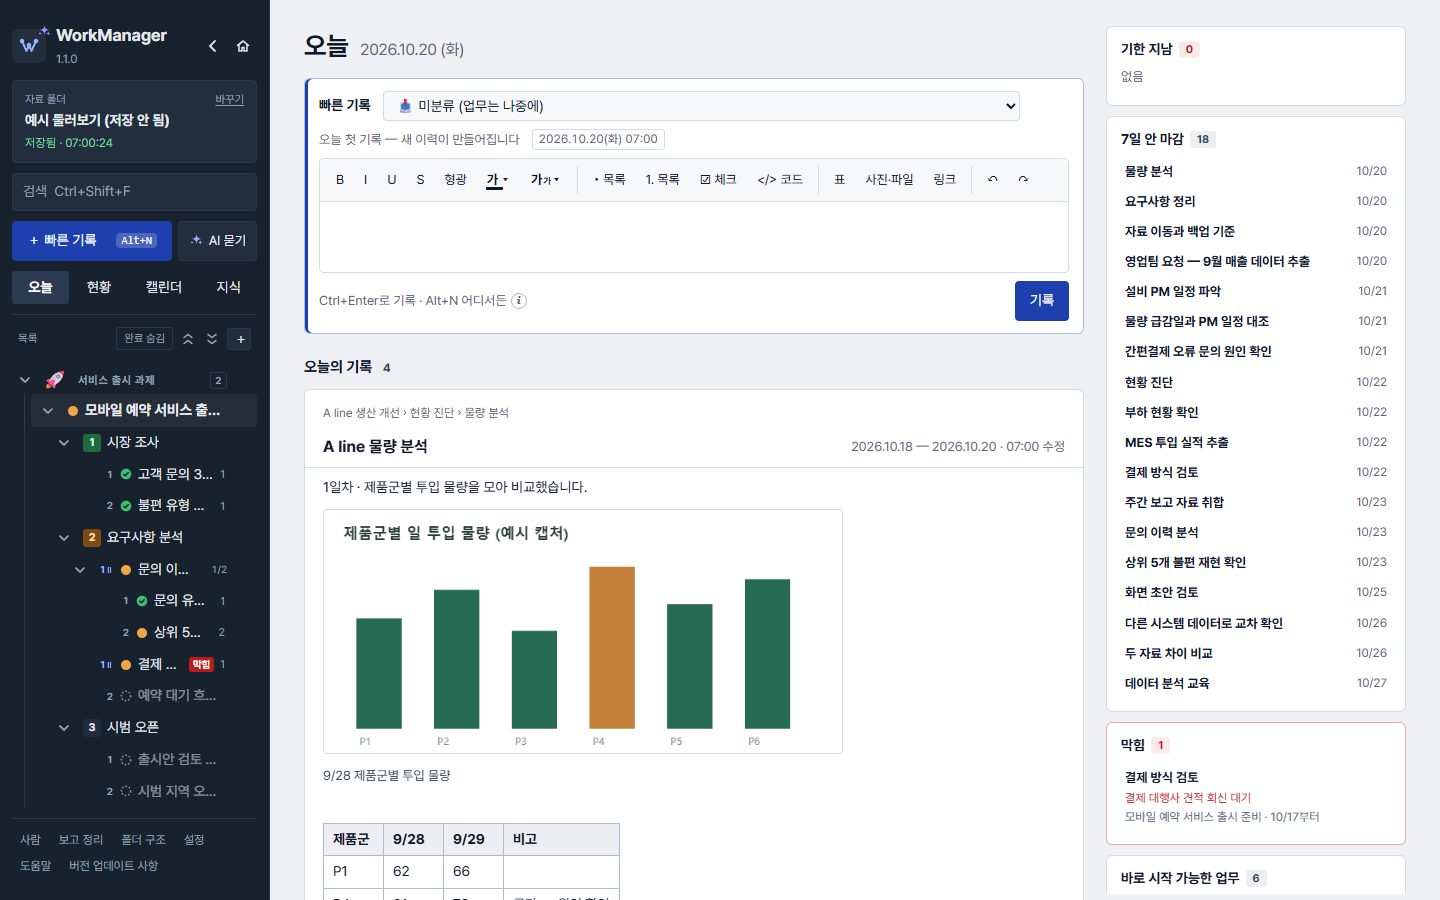
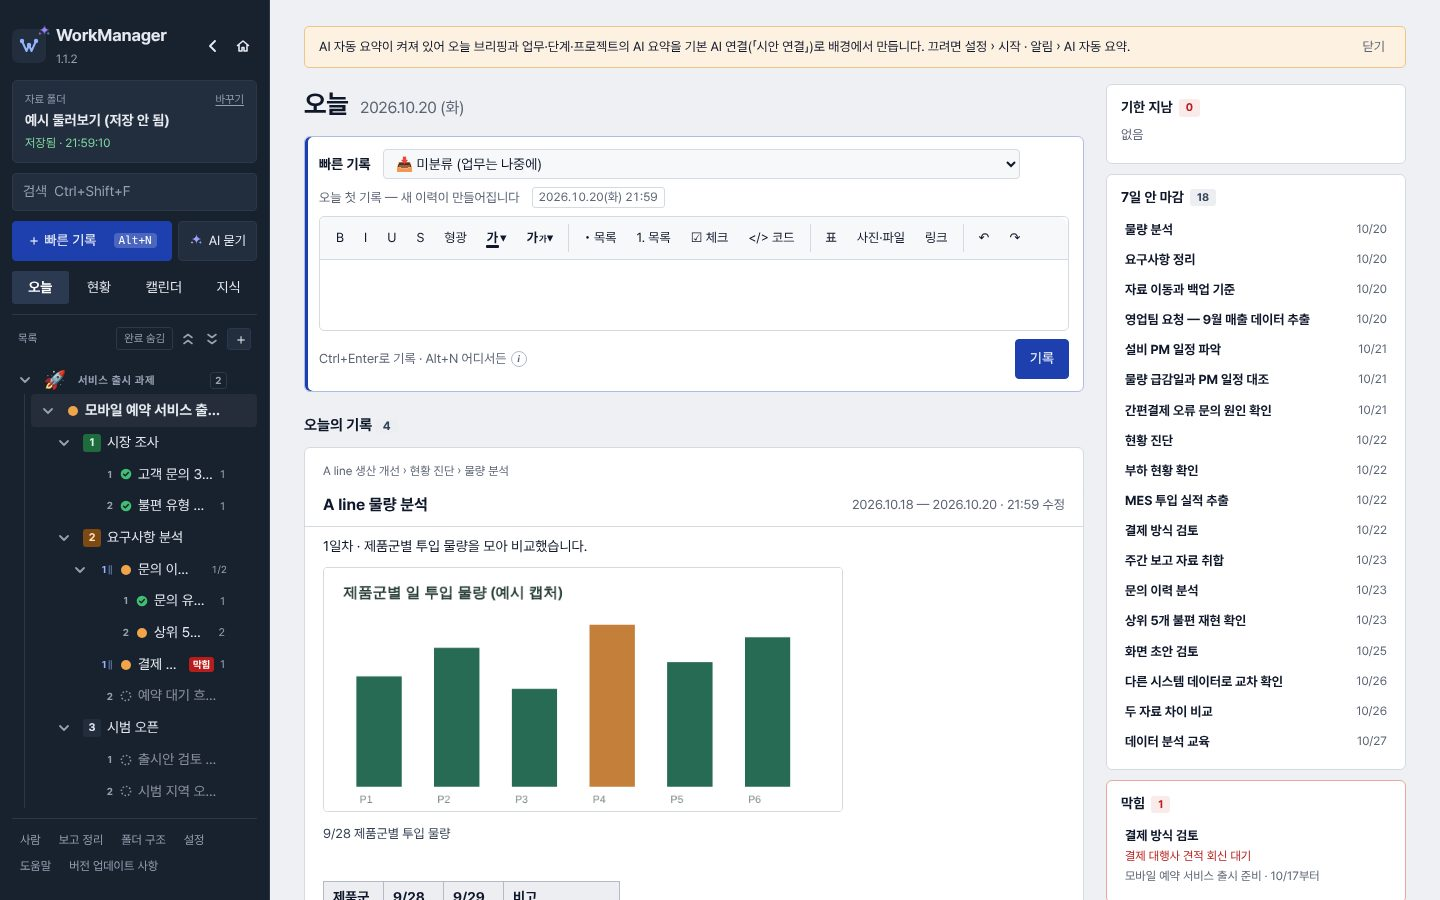
docs: WorkManager 1.1.2 안내와 설명서 갱신
Agent: Codex

diff --git a/README.md b/README.md
@@ -2,33 +2,34 @@
 
 흐름으로 업무를 관리하고, 쌓인 기록을 AI로 요약·정리하는 Windows 개인 업무 관리 앱입니다.
 
-**최신 버전: 1.1.1** · Windows (x64)
+**최신 버전: 1.1.2** · Windows (x64)
 
 | 필요한 것 | 바로가기 |
 |---|---|
 | 프로그램 | [WorkManager.exe 다운로드](https://github.com/1821rpm/workmanager/releases/latest/download/WorkManager.exe) |
 | 사용 설명서 | **[GitHub에서 바로 읽기](manual/README.md)** |
-| 오프라인 설명서 | [Releases](https://github.com/1821rpm/workmanager/releases/latest)의 `WorkManager-Manual-<버전>.html` — 받은 파일을 더블클릭하면 브라우저에서 열립니다 |
+| 오프라인 설명서 | [Releases](https://github.com/1821rpm/workmanager/releases/latest)의 [WorkManager-Manual-1.1.2.html](https://github.com/1821rpm/workmanager/releases/download/v1.1.2/WorkManager-Manual-1.1.2.html) — 받은 파일을 더블클릭하면 브라우저에서 열립니다 |
 | 변경 내용 · 이전 버전 | [Releases](https://github.com/1821rpm/workmanager/releases) |
 
 ![프로젝트의 개요와 업무 흐름](manual/img/04-project.jpg)
 
-게시된 1.1.0에서 1.1.1로 앱 안 업데이트·재시작을 확인했습니다. 기존 자료와 AI 연결 설정은 그대로 유지됩니다.
+자료 형식 v6를 유지하며 기존 자료 폴더와 AI 연결 설정을 이어 사용합니다.
 
-## 1.1.1에서 달라진 점
+## 1.1.2에서 달라진 점
 
-- 그림 한 장이 2분 동안 답하지 않으면 「읽기 실패(시간 초과)」로 두고 다음 그림으로 넘어갑니다. 다시 읽는 중 「중단」도 즉시 풀립니다.
-- 못 읽은 그림을 AI 요약 아래와 설정 목록에서 확인하고, 오른쪽 클릭으로 「AI에 안 보내기」·「AI에 다시 보내기」를 고를 수 있습니다.
-- 서로 다른 업무의 배경 AI 요약을 기본 3개씩 보냅니다. 하위 업무 → 단계 → 프로젝트 순서는 유지하며 설정 › 시작 · 알림에서 동시에 보내는 수를 1~5로 고를 수 있습니다.
-- Windows 백업의 일시적인 접근 오류를 짧게 다시 시도하고, 실패한 백업의 임시 폴더를 정리합니다.
-- 휴지통 비우기에서 중복 읽기를 줄이고, 복구 폴더의 desktop.ini·동기화 사본 같은 낯선 이름을 보존하면서 자료 폴더를 엽니다. 복구 기록의 모호한 사본은 중단하고 보존합니다.
+- **휴지통 전체 비우기가 되지 않던 것**을 고쳤습니다. 지우는 업무에 붙은 회의가 갈 곳이 없으면 확인창이 그 회의 이름과 어느 업무에 붙어 있는지 보여 주고, 그 자리에서 「이 회의도 같이 지우기」 또는 「미분류로 옮기기」를 고릅니다.
+- **마감을 지운 일이 「기한 지남」으로 뜨던 것**을 고쳤습니다. 기한은 적어 둔 마감만 보고, 시작일을 마감 대신 쓰지 않습니다(현황 할 일·단계·프로젝트 묶음·흐름도 모두).
+- **고치지 않았는데 「AI 요약 다시」가 뜨던 것**을 고쳤습니다. 바뀐 기록을 세는 기준을 자료 폴더에 담아 다른 PC에서도 같은 기준을 쓰고, AI 자신이 쓴 것은 「바뀜」으로 세지 않습니다.
+- 현황을 짧게: 우선순위 3줄 · 일정 5줄까지만 펼치고, 「챙길 것」은 제목과 개수만 두고 접습니다. 우선순위의 업무 이름을 누르면 그 업무로 갑니다.
+- 왼쪽 위 로고를 누르면 **AI 상태 창** — 지금 무엇을 만들고 있고 무엇을 기다리는지 어느 화면에서든 봅니다.
+- 배경 AI 요약 동시 수 기본값 3 → 5(설정에서 1~5).
+- 정리 칸 안내를 줄이고, AI 요약의 성격·진행·예정을 굵게 했습니다. 자료·링크를 넣을 때 이름도 함께 쓸 수 있습니다.
+- Ctrl+Enter는 어디서나 「지금 쓰던 것을 완료」입니다. 되돌릴 수 없는 확인창에서는 돌지 않습니다.
 
 ## 알려진 점
 
-- 사내 모델·실제 백신 상황은 확인하지 못했습니다.
-- 휴지통 비우기에는 진행 표시가 없습니다.
-- 폴더를 바꾸어도 이전 요청은 답이 올 때까지 전송 자리를 차지합니다. 병렬 요청에서는 선택한 하루 한도를 최대 2개(기본 동시 수 3 기준) 넘을 수 있습니다. 직접 누른 만들기는 하위 정리를 기다리지 않습니다.
-- 설명서의 기존 예시 그림에는 이전 판 화면과 모의 응답 문구가 포함되어 있습니다.
+- 설명서 그림은 이번 판에서 다시 찍었습니다 — 앱 안 도움말 그림과 글꼴이 미세하게 다를 수 있습니다.
+- 배경 AI 요약을 동시에 5개까지 보냅니다. 연결한 AI 서버가 느려지면 설정에서 1~4로 내리세요.
 
 ## 할 수 있는 일
 

diff --git a/manual/README.md b/manual/README.md
@@ -1,10 +1,26 @@
-# WorkManager 1.1.1 사용 설명서
+# WorkManager 1.1.2 사용 설명서
 
-Windows x64용 WorkManager 1.1.1 설명서입니다. 기존 자료 폴더와 AI 연결 설정을 그대로 이어 사용합니다.
+Windows x64용 WorkManager 1.1.2 설명서입니다. 기존 자료 폴더와 AI 연결 설정을 그대로 이어 사용합니다.
 
-[현재 정식판 다운로드](https://github.com/1821rpm/workmanager/releases/download/v1.1.1/WorkManager.exe) · [현재 정식판 설명서](https://github.com/1821rpm/workmanager/releases/download/v1.1.1/WorkManager-Manual-1.1.1.html) · [프로젝트 첫 화면](../README.md)
+[현재 정식판 다운로드](https://github.com/1821rpm/workmanager/releases/download/v1.1.2/WorkManager.exe) · [현재 정식판 설명서](https://github.com/1821rpm/workmanager/releases/download/v1.1.2/WorkManager-Manual-1.1.2.html) · [프로젝트 첫 화면](../README.md)
 
 앱 안 도움말과 같은 내용입니다. 그림은 예시·합성 자료이며 AI 답은 모의 응답입니다. 업데이트 그림은 이전 판에서 촬영한 안내 예시입니다.
+
+## 1.1.2 안내
+
+- **휴지통 전체 비우기가 되지 않던 것**을 고쳤습니다. 지우는 업무에 붙은 회의가 갈 곳이 없으면 확인창이 그 회의 이름과 어느 업무에 붙어 있는지 보여 주고, 그 자리에서 「이 회의도 같이 지우기」 또는 「미분류로 옮기기」를 고릅니다.
+- **마감을 지운 일이 「기한 지남」으로 뜨던 것**을 고쳤습니다. 기한은 적어 둔 마감만 보고, 시작일을 마감 대신 쓰지 않습니다(현황 할 일·단계·프로젝트 묶음·흐름도 모두).
+- **고치지 않았는데 「AI 요약 다시」가 뜨던 것**을 고쳤습니다. 바뀐 기록을 세는 기준을 자료 폴더에 담아 다른 PC에서도 같은 기준을 쓰고, AI 자신이 쓴 것은 「바뀜」으로 세지 않습니다.
+- 현황을 짧게: 우선순위 3줄 · 일정 5줄까지만 펼치고, 「챙길 것」은 제목과 개수만 두고 접습니다. 우선순위의 업무 이름을 누르면 그 업무로 갑니다.
+- 왼쪽 위 로고를 누르면 **AI 상태 창** — 지금 무엇을 만들고 있고 무엇을 기다리는지 어느 화면에서든 봅니다.
+- 배경 AI 요약 동시 수 기본값 3 → 5(설정에서 1~5).
+- 정리 칸 안내를 줄이고, AI 요약의 성격·진행·예정을 굵게 했습니다. 자료·링크를 넣을 때 이름도 함께 쓸 수 있습니다.
+- Ctrl+Enter는 어디서나 「지금 쓰던 것을 완료」입니다. 되돌릴 수 없는 확인창에서는 돌지 않습니다.
+
+## 알려진 점
+
+- 설명서 그림은 이번 판에서 다시 찍었습니다 — 앱 안 도움말 그림과 글꼴이 미세하게 다를 수 있습니다.
+- 배경 AI 요약을 동시에 5개까지 보냅니다. 연결한 AI 서버가 느려지면 설정에서 1~4로 내리세요.
 
 ## 1.1.1 안내
 
